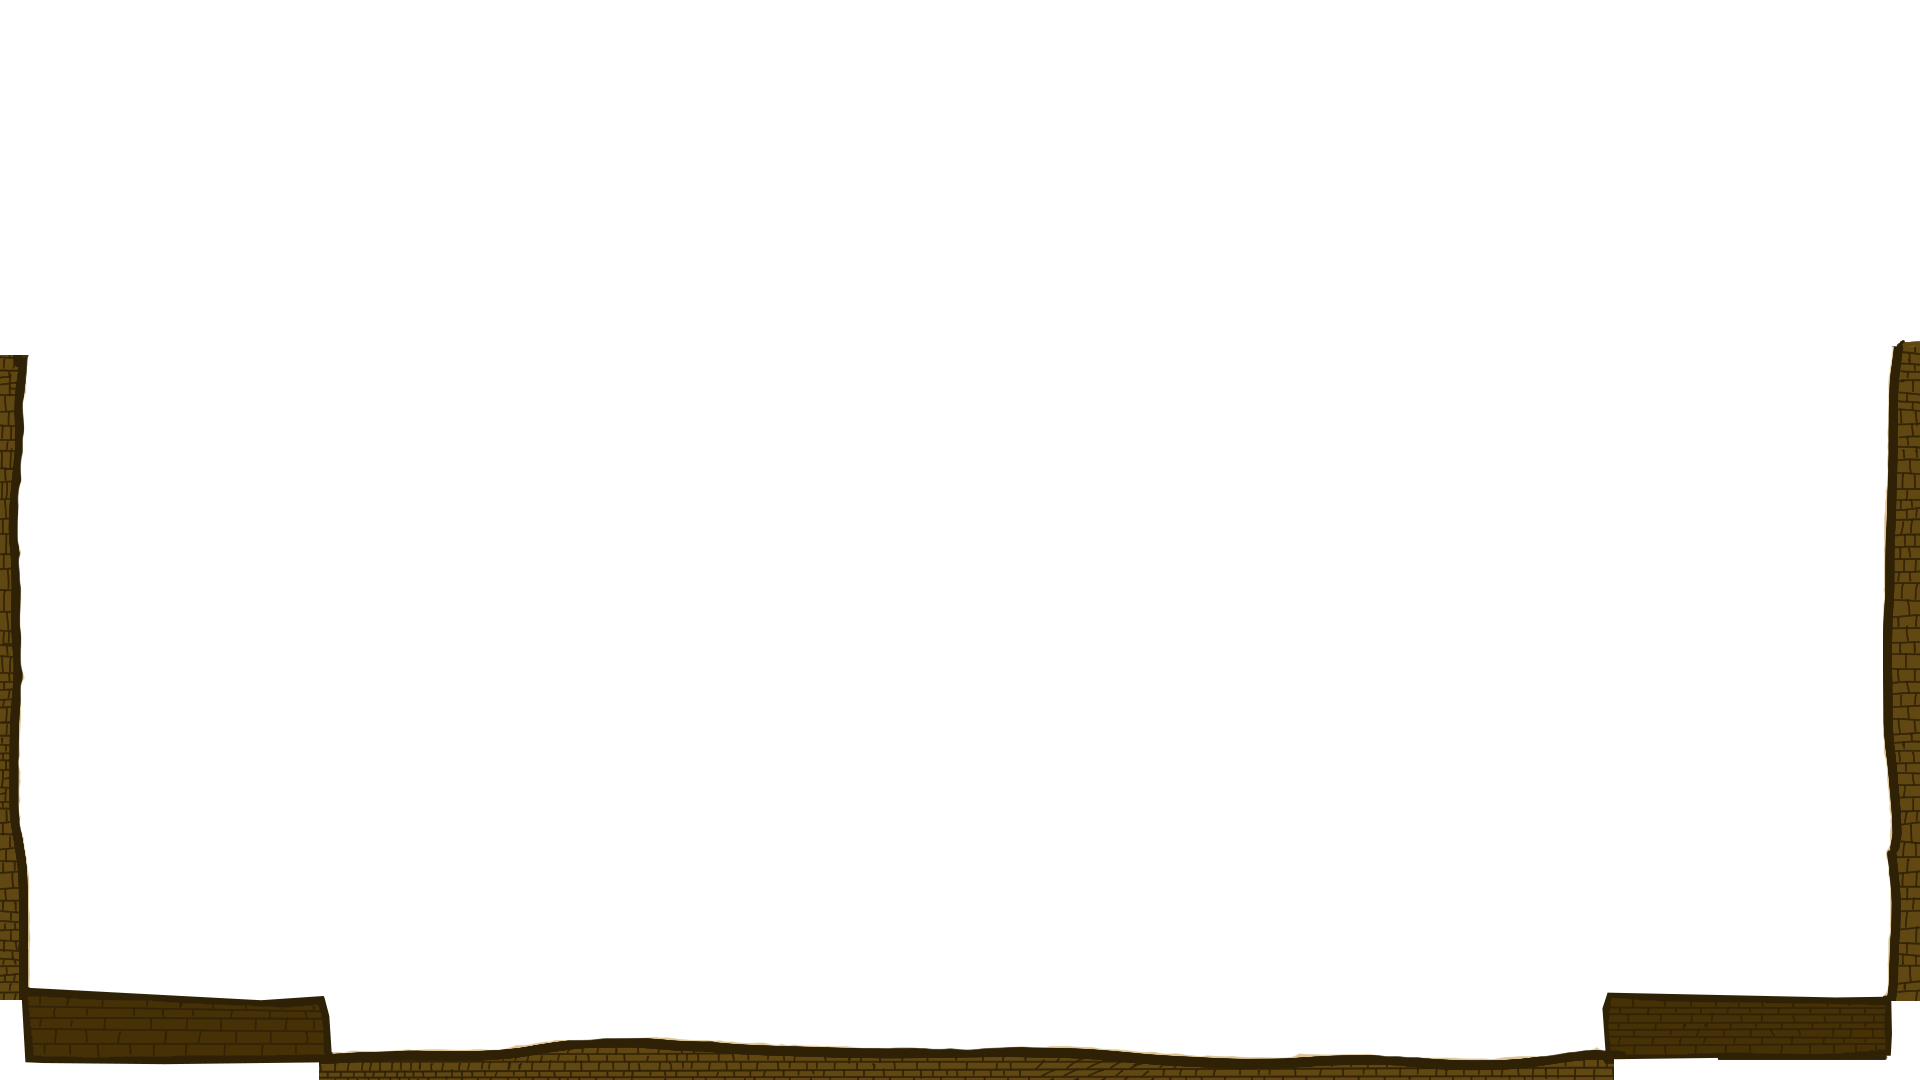
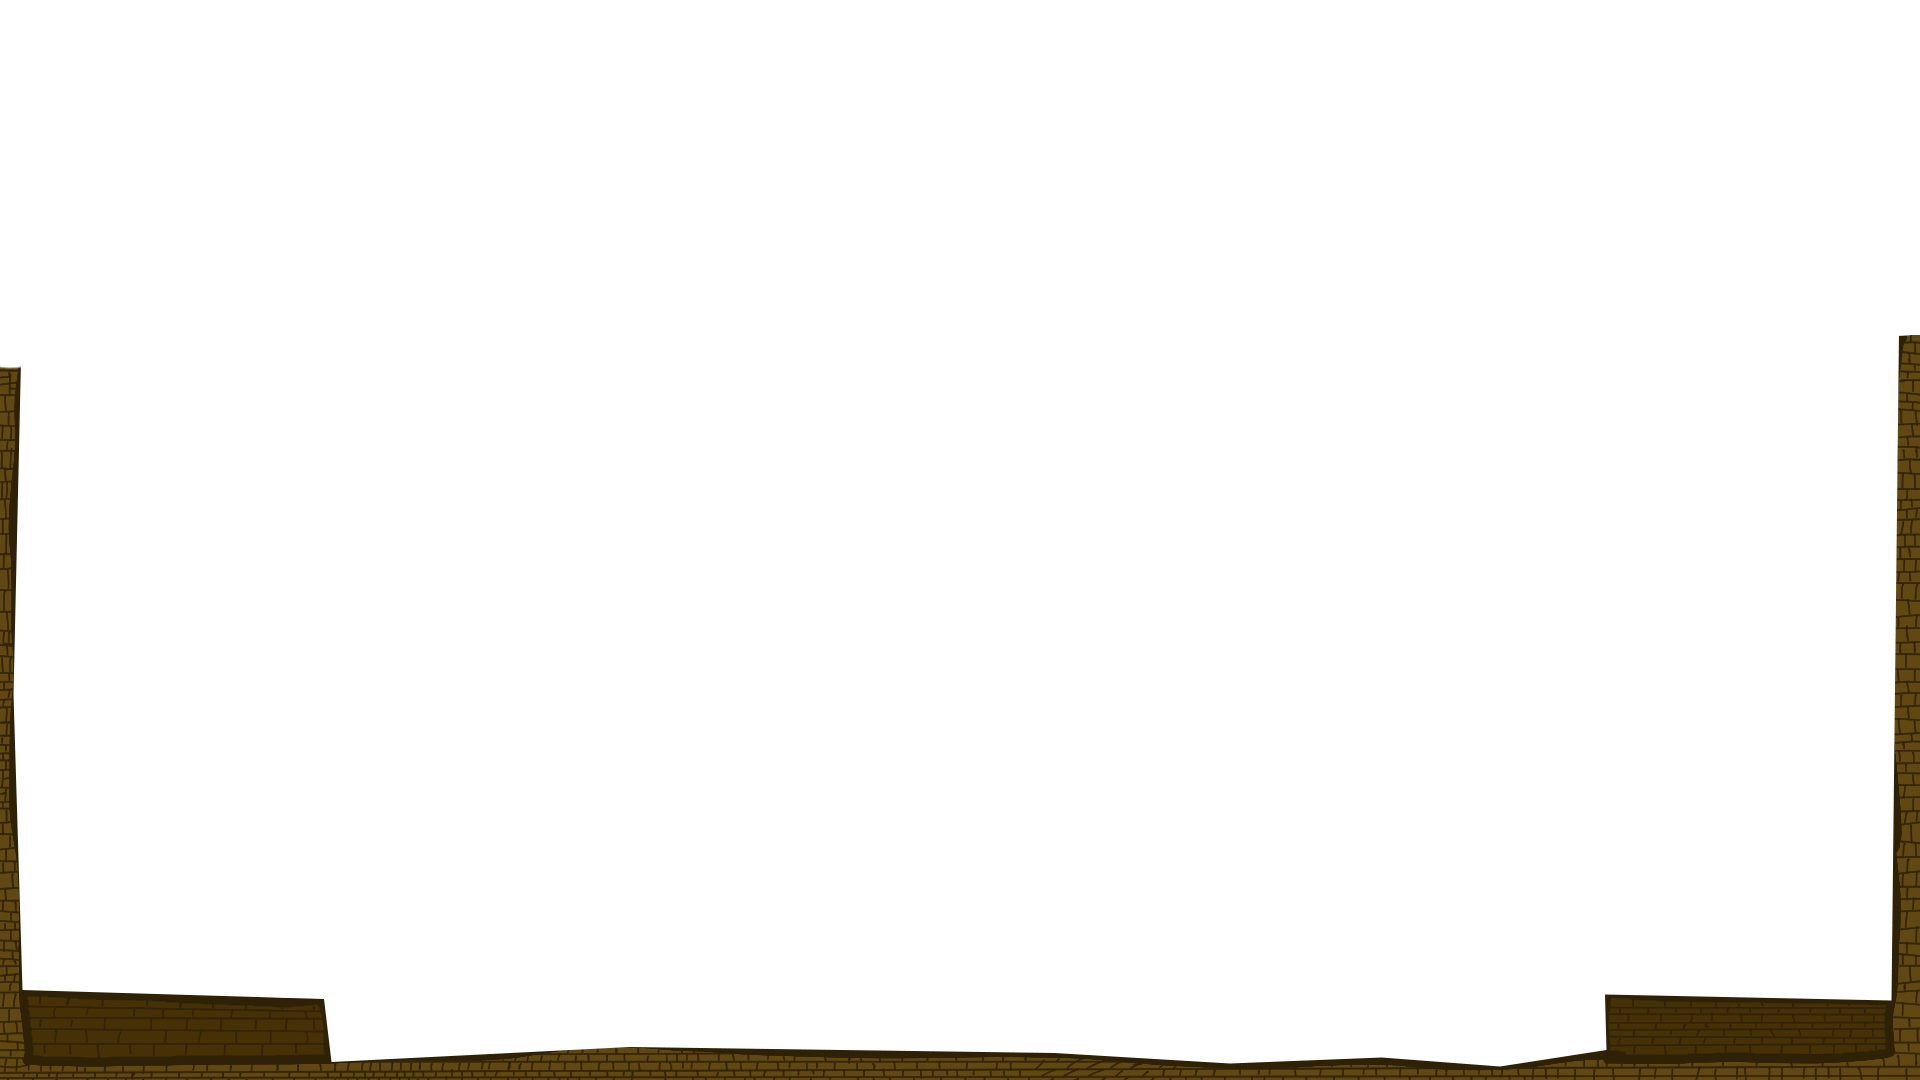
Shield and walls

diff --git a/GXPEngine/GXPEngine/Player.cs b/GXPEngine/GXPEngine/Player.cs
@@ -29,6 +29,8 @@ class Player : Sprite
     public static event Action OnDeathAnimationEnd;         //death animation end event
     private Sprite dropShadow;              //shadow sprite
 
+    private ShieldLayer _shieldShadow;
+
     public static event Action OnPLayerHit;
 
     public enum PlayerState
@@ -52,10 +54,10 @@ class Player : Sprite
         y = py;
         AddChild(new Shield(this));
         SetDropShadow("DropShadow.png", 100, 25, 0, 60);
+        ShowShieldSprites();
         AddChild(_playerAnimations = new PlayerAnimations());
         alpha = 0;
         SetPlayerState(PlayerState.IDLE);
-        ShowShieldSprites();
         GameManager.OnPlayerDeath += DeathAnimation;
     }
 
@@ -215,6 +217,9 @@ class Player : Sprite
     //loads the shield sprites
     public void ShowShieldSprites()
     {
+        AddChild(_shieldShadow = new ShieldLayer("shield_shadow.png", this, _shieldSpriteOffset * 4));
+        _shieldShadow.color = 0xe36ff2;
+        _shieldShadow.alpha = 0.5f;
         AddChild(new ShieldLayer("Paint_layer_2.png", this, _shieldSpriteOffset * 2));
         AddChild(new ShieldLayer("Paint_layer_3.png", this, _shieldSpriteOffset));
         AddChild(new ShieldLayer("Paint_layer_4.png", this, 0));

diff --git a/GXPEngine/GXPEngine/Arena.cs b/GXPEngine/GXPEngine/Arena.cs
@@ -92,6 +92,7 @@ class Arena : Sprite
         mouseCursor.width = 119;
         mouseCursor.height = 50;
         AddChild(mouseCursor);
+        AddChild(new Sprite("top_wall.png"));
 
         AddChild(_player = new Player(width / 2, height / 2));
 
